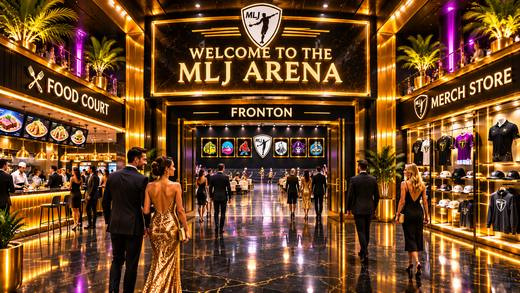
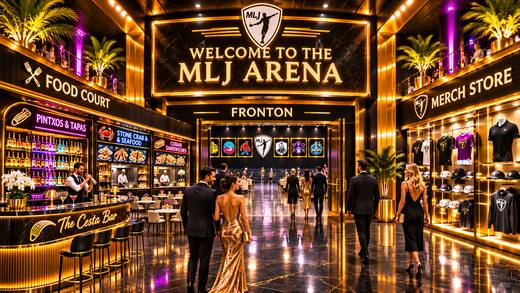
Arena gallery: new photo 3 (concourse)
Claude-Session: https://claude.ai/code/session_01RXYkimbn35SjoihCfai7fS

diff --git a/arena.html b/arena.html
@@ -342,8 +342,8 @@ document.getElementById('tourBtn').onclick=startTour; document.getElementById('t
 (function(){ var PH=[["The MLJ Arena on the Intracoastal", "doll"], ["Valet arrival under the porte-cochère", "valet"], ["Welcome to the MLJ Arena", "entry"], ["Food court and The Cesta Bar", "food"], ["Official team gear at the merch store", "merch"], ["The exotic goldfish bar", "goldfish"], ["Exotic goldfish under your cocktail", "goldfish"], ["The shark tank bar", "sharks"], ["A shark under your cocktail", "sharks"], ["Team banners on the side wall", "seats"], ["Fans in team gear in the stadium seats", "seats"], ["VIP couches, courtside", "vip"], ["The best seat in the house", "vip"], ["Bottle service in the VIP", "vip"], ["The VIP section and the stands", "vip"], ["Match night on the court", "court"], ["Full stretch for the pelota", "court"], ["The Peloteros and the Squared Groupers", "court"]], SPOTPIC={entry:2,doors:2,food:3,merch:4,goldfish:5,sharks:7,seats:10,vip:11,court:15,valet:1,vpark:1,lot:0,marina:0},
   gal=document.getElementById('gal'), grid=document.getElementById('galGrid'), big=document.getElementById('galBig'), img=document.getElementById('galImg'), cap=document.getElementById('galCap'), chip=document.getElementById('spotPic'), cur=0, built=false;
   function n2(i){ return (i<9?'0':'')+(i+1); }
-  function show(i){ cur=(i+PH.length)%PH.length; img.src='arena-photo-'+n2(cur)+'.jpg'; img.alt=PH[cur][0]; cap.textContent=(cur+1)+' / '+PH.length+'  ·  '+PH[cur][0]; big.hidden=false; }
-  function build(){ if(built) return; built=true; PH.forEach(function(c,i){ var f=document.createElement('figure'), im=document.createElement('img'), fc=document.createElement('figcaption'); im.loading='lazy'; im.src='arena-thumb-'+n2(i)+'.jpg'; im.alt=c[0]; fc.textContent=c[0]; f.appendChild(im); f.appendChild(fc); f.onclick=function(){ show(i); }; grid.appendChild(f); }); }
+  function show(i){ cur=(i+PH.length)%PH.length; img.src='arena-photo-'+n2(cur)+'.jpg?v=2'; img.alt=PH[cur][0]; cap.textContent=(cur+1)+' / '+PH.length+'  ·  '+PH[cur][0]; big.hidden=false; }
+  function build(){ if(built) return; built=true; PH.forEach(function(c,i){ var f=document.createElement('figure'), im=document.createElement('img'), fc=document.createElement('figcaption'); im.loading='lazy'; im.src='arena-thumb-'+n2(i)+'.jpg?v=2'; im.alt=c[0]; fc.textContent=c[0]; f.appendChild(im); f.appendChild(fc); f.onclick=function(){ show(i); }; grid.appendChild(f); }); }
   document.getElementById('galBtn').onclick=function(){ build(); gal.hidden=false; gal.scrollTop=0; };
   document.getElementById('galX').onclick=function(){ gal.hidden=true; }; document.getElementById('galBack').onclick=function(){ big.hidden=true; };
   document.getElementById('galPrev').onclick=function(){ show(cur-1); }; document.getElementById('galNext').onclick=function(){ show(cur+1); };
@@ -351,7 +351,7 @@ document.getElementById('tourBtn').onclick=startTour; document.getElementById('t
   var sx=null; big.addEventListener('touchstart',function(e){ sx=e.touches[0].clientX; },{passive:true}); big.addEventListener('touchend',function(e){ if(sx===null) return; var d=e.changedTouches[0].clientX-sx; sx=null; if(Math.abs(d)>50) show(cur+(d<0?1:-1)); });
   addEventListener('keydown',function(e){ if(big.hidden) return; if(e.key==='ArrowRight') show(cur+1); else if(e.key==='ArrowLeft') show(cur-1); else if(e.key==='Escape') big.hidden=true; });
   /* each Go-to stop is paired with its photo: a small card that opens the picture */
-  var chipI=0; window.spotPhoto=function(k){ var i=k==null?undefined:SPOTPIC[k]; if(i===undefined){ chip.hidden=true; return; } chipI=i; document.getElementById('spotImg').src='arena-thumb-'+n2(i)+'.jpg'; document.getElementById('spotCap').textContent=PH[i][0]; chip.hidden=false; };
+  var chipI=0; window.spotPhoto=function(k){ var i=k==null?undefined:SPOTPIC[k]; if(i===undefined){ chip.hidden=true; return; } chipI=i; document.getElementById('spotImg').src='arena-thumb-'+n2(i)+'.jpg?v=2'; document.getElementById('spotCap').textContent=PH[i][0]; chip.hidden=false; };
   document.getElementById('spotOpen').onclick=function(){ show(chipI); }; document.getElementById('spotX').onclick=function(e){ e.stopPropagation(); chip.hidden=true; }; })();
 function goSpot(k){ var s=SPOTS[k]; if(!s) return; pos.x=s[0]; pos.z=s[1]; yaw=s[2]; pitch=-0.05; setMode('walk'); spotPhoto(k); }
 document.getElementById('go').onclick=function(){ document.getElementById('welcome').hidden=true; started=true; setMode('walk'); };
